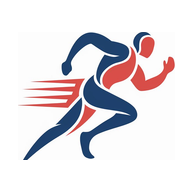
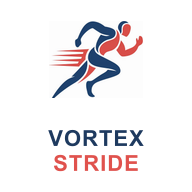
feat(pwa): icona finale "runner + VORTEX STRIDE" (Opzione B)
Scelta utente dopo confronto di 3 varianti. Risolve i problemi
precedenti (piede tagliato nella maskable + troppo spazio bianco):

- Icone "any" (192/512/1024): runner in alto + scritta "VORTEX" (navy)
  "STRIDE" (rosso) sotto. Riempie lo spazio, brandizzata, richiama il
  logo originale. È l'icona mostrata in PWABuilder/browser/splash.
- Icone "maskable" (192/512): solo runner centrato al 60% (safe-zone),
  niente testo (verrebbe tagliato dal mask circolare Android). Usata
  per l'icona adattiva sull'home screen.

Manifest già configurato con purpose separati (any → icon-*.png,
maskable → icon-*-maskable.png), nessuna modifica necessaria lì.

SW: cache v9 → v10 (rigenerazione icone).

Changed region(s): [[0.0938, 0.0938, 0.9375, 0.9062]]

diff --git a/public/sw.js b/public/sw.js
@@ -24,7 +24,8 @@
 //        "Di Dio Pietro" su ogni pagina (bump per rinfrescare icone+JS)
 //   v8 → Pagina Archivio (calendario mensile + dettaglio giorno)
 //   v9 → Icone maskable separate (runner 60% safe-zone, niente tagli)
-const CACHE_NAME  = 'didio-v9';
+//   v10 → Icona "any" finale: runner + scritta VORTEX STRIDE (Opzione B)
+const CACHE_NAME  = 'didio-v10';
 const OFFLINE_URL = '/offline.html';
 
 const PRECACHE = [